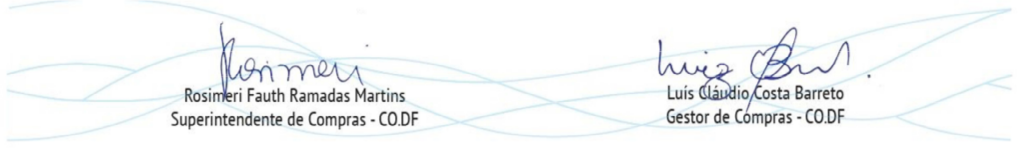
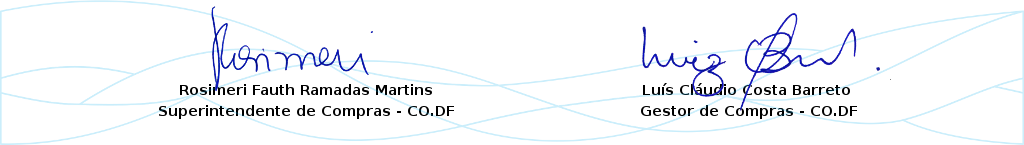
SC-391 #resolved SC-391 #comment Updated the signatures file, containaing a high resolution file

diff --git a/modules/Calendar/scripts/calendar.js b/modules/Calendar/scripts/calendar.js
@@ -55,6 +55,7 @@ $SC.module("portlet.calendar", function(mod, app, Backbone, Marionette, $, _) {
 	                header: h,
 	                slotMinutes: 15,
 	                editable: false,
+	                draggable : false,
 	                timezone : 'UTC',
                     eventSources: [
                         '/module/calendar/datasource/calendar'

diff --git a/modules/Certificate/CertificateModule.php b/modules/Certificate/CertificateModule.php
@@ -3,6 +3,8 @@ namespace Sysclass\Modules\Certificate;
 
 use Sysclass\Models\Courses\Course,
     Sysclass\Models\Users\User,
+    Sysclass\Models\Certificates\Certificate,
+    Sysclass\Models\Courses\Tests\Lesson as LessonTest,
     Dompdf\Dompdf,
     Dompdf\Canvas,
     Sysclass\Models\Organizations\Organization,
@@ -23,17 +25,26 @@ class CertificateModule extends \SysclassModule implements \ISummarizable, INoti
 
     /* ISummarizable */
     public function getSummary() {
-        $data = array(1);
+        $certificates = Certificate::find(array(
+            'conditions' => 'user_id = ?0',
+            'bind' => array($this->user->id),
+            'order' => 'id DESC'
+        ));
 
-        return array(
+        $info = array(
             'type'  => 'warning',
-            'count' => $data[0],
+            'count' => $certificates->count(),
             'text'  => $this->translate->translate('Certificates'),
-            'link'  => array(
-                'text'  => $this->translate->translate('View'),
-                'link'  => $this->getBasePath()
-            )
         );
+
+        if ($certificates->count() > 0) {
+            $info['link']  = array(
+                'text'  => $this->translate->translate('View'),
+                'link'  => $this->getBasePath() . "print/" . $certificates->getFirst()->id
+            );
+        }
+
+        return $info;
     }
 
     /* INotifyable */
@@ -44,6 +55,7 @@ class CertificateModule extends \SysclassModule implements \ISummarizable, INoti
     public function processNotification($action, Event $event) {
         switch($action) {
             case "make-avaliable" : {
+                /*
                 $data = $event->data;
                 $course = Course::findFirstById($data['course_id']);
                 $user = User::findFirstById($data['user_id']);
@@ -62,18 +74,177 @@ class CertificateModule extends \SysclassModule implements \ISummarizable, INoti
                         )
                     );
 
+                    // CREATE THE CERTIFICATE ON THE DATABASE
+
 
                     return array(
                         'status' => true
                     );
-
                 } else {
+                    */
                     return array(
                         'status' => false,
                         'unqueue' => true
                     );
+                //}
+                break;
+            }
+            case "create-certificate": {
+                $data = $event->data;
+                var_dump($data);
+
+                $type = $data['trigger'];
+
+                var_dump($type);
+
+                if ($type == "test") {
+                    $this->createTestCertificate($data['user_id'], $data['entity_id']);
+                }
+                return array(
+                    'status' => false,
+                    'unqueue' => false
+                );
+                exit;
+            }
+        }
+    }
+
+    public function createTestCertificate($user_id, $test_id) {
+        // GET CLASS AND COURSE NAME
+        $lessonTest = LessonTest::findFirstById($test_id);
+        $user = User::findFirstById($user_id);
+        if ($lessonTest && $user) {
+            $module = $lessonTest->getClasse();
+            if ($module) {
+                $courses = $module->getCourses();
+                if ($courses->count() > 0) {
+                    $course = $courses->getFirst();
+
+                    $vars = array(
+                        'username' => $user->name . " " . $user->surname,
+                        'coursename' => $course->name,
+                        'modulename' => $module->name,
+                        'date' => date("d/m/Y")
+                    );
+
+                    $certificate = Certificate::findFirst(array(
+                        'conditions' => "user_id = ?0 AND entity_id = ?1 AND type = 'test'",
+                        'bind' => array($user_id, $test_id)
+                    ));
+
+                    if (!$certificate) {
+                        $certificate = new Certificate();
+                        $certificate->user_id = $user_id;
+                        $certificate->entity_id = $test_id;
+                        $certificate->type = 'test';
+                    }
+                    $certificate->name = $module->name;
+
+                    $certificate->vars = json_encode($vars);
+                    if ($certificate->save()) {
+                        return true;
+                    }
                 }
             }
+        }
+        return false;
+    }
+
+    /**
+    * [ add a description ]
+    *
+    * @Get("/print/{id}")
+    */    
+    public function printCertificate($id)
+    {
+        //var_dump($courseModel->getCertificateTemplate($id)); // RETORNA template3
+
+        /*var_dump();
+        exit;
+        */
+        $canContinue = false;
+
+        $certificate = Certificate::findFirstById($id);
+
+        if ($certificate && $certificate->user_id == $this->user->id) {
+            // CHECK IF THE TEST IS ALREADY COMPLETED
+            $canContinue = true;
+        }
+        /*
+        $courses = $this->user->getUserCourses();
+
+        foreach($courses as $course) {
+            if ($course->course_id = $id) {
+                $canContinue = $course->isCompleted();
+                break;
+            }
+        }
+        */
+        if ($canContinue) {
+
+            $vars = json_decode($certificate->vars, true);
+
+            $this->view->setVars($vars);
+            //$course->complete();
+            //$this->view->setVar("course", $course->getCourse());    
+
+            $organization = Organization::findFirst();
+            $this->view->setVar("organization", $organization);
+
+            $this->assets
+                ->collection('header')
+                /*
+                ->setPrefix(sprintf(
+                    '%s://%s',
+                    $this->request->getScheme(),
+                    $this->request->getHttpHost()
+                ))
+                */
+                //->addCss('http://fonts.googleapis.com/css?family=Roboto', true)
+                //->addCss('/assets/default/plugins/bootstrap/css/bootstrap.css', true)
+                ->addCss('assets/default/css/certificate.css')
+                ->addCss('assets/default/css/certificates/itaipu.css');
+
+            $html = $this->view->render("certificate/" . $certificate->type . ".cert");
+            
+            $this->response->setContent($html);
+            //return true;
+
+            global $_dompdf_show_warnings;
+            //$_dompdf_show_warnings = true;
+
+            global $_dompdf_debug;
+            //$_dompdf_debug = true;
+            
+            $pdf = new \mPdf("","A4-L");
+
+            $pdf->WriteHTML($html, 0);
+            $br = rand(0, 100000);
+            $ispis = "Certificado-" . $id . ".pdf";
+
+            $pdf->Output($ispis, "I");
+            /*
+            $dompdf->set_base_path(REAL_PATH);
+            //$dompdf->set_option('isHtml5ParserEnabled', true);
+            $dompdf->set_option('isRemoteEnabled', true);
+            //$dompdf->set_option('debugCss', true);
+
+            $dompdf->load_html($html);
+            $dompdf->set_paper('letter', 'landscape');
+            $dompdf->render();
+            
+            //$dompdf->stream("$id");
+            $dompdf->stream(date('d/m/Y').'certificado.pdf', array('Attachment'=>true));
+            */
+        } else {
+            //$this->response->redirect();
+            $this->redirect(
+                '/dashboard',
+                $this->translate->translate("Warning: An error occured when the system is trying to complete your request!"),
+                'warning'
+            );
+            
+            return;
         }
     }
 
@@ -82,7 +253,7 @@ class CertificateModule extends \SysclassModule implements \ISummarizable, INoti
     *
     * @Get("/view/{id}")
     */    
-    public function printCertificate($id)
+    public function viewCertificate($id)
     {
         //var_dump($courseModel->getCertificateTemplate($id)); // RETORNA template3
 

diff --git a/model/TestsExecutionModel.php b/model/TestsExecutionModel.php
@@ -65,6 +65,19 @@ class TestsExecutionModel extends AbstractSysclassModel implements ISyncronizabl
         );
 
         $this->calculateUserScore($test_try);
+
+
+        $evData = array(
+            'entity_id' => $test_try['test_id'],
+            'user_id' => $test_try['user_id'],
+            'trigger' => 'test'
+        );
+
+        $evManager = \Phalcon\DI::getDefault()->get("eventsManager");
+
+        $evManager->fire("certificate:generate", $this, $evData);
+        var_dump($evData);
+        exit;
     }
 
     public function calculateUserScore($execution) {

diff --git a/modules/Tests/TestsModule.php b/modules/Tests/TestsModule.php
@@ -608,6 +608,7 @@ class TestsModule extends \SysclassModule implements \ISummarizable, \ILinkable,
 
             if ($itemModel->setItem($data, $identifier) !== false) {
                 if ($model == "execution" && $data['complete'] == 1) {
+
                     return $this->createRedirectResponse(
                         $this->getBasePath() . "execute/" . $data['test_id'] . "/" . $identifier,
                         $this->translate->translate("Test completed with success"),

diff --git a/app/models/Certificates/Certificate.php b/app/models/Certificates/Certificate.php
@@ -1,0 +1,22 @@
+<?php
+namespace Sysclass\Models\Certificates;
+
+use Plico\Mvc\Model;
+
+class Certificate extends Model
+{
+    public function initialize()
+    {
+        $this->setSource("mod_certificate");
+        
+        $this->belongsTo(
+            "user_id",
+            "Sysclass\Models\Users\User",
+            "id",
+            array(
+                'alias' => 'User',
+            )
+        );
+    }
+    
+}

diff --git a/cli.php b/cli.php
@@ -20,12 +20,15 @@ use Phalcon\Mvc\Application;
 
 define("REAL_PATH", realpath(__DIR__ . "/"));
 
+define("PLICOLIB_PATH", __DIR__ . "/plicolib/");
+
+/*
 if ($_SERVER['HTTP_HOST'] == 'local.beta.sysclass.com') {
     define("PLICOLIB_PATH", "/projects/repo/plico/plicolib.local/");
 } else {
     define("PLICOLIB_PATH", __DIR__ . "/../../../plicolib/current/");
 }
-
+*/
 define("APP_TYPE", "CONSOLE");
 
 

diff --git a/app/models/Courses/Tests/Lesson.php b/app/models/Courses/Tests/Lesson.php
@@ -28,6 +28,7 @@ class Lesson extends BaseLesson
             "id",
             array('alias' => 'Questions')
         );
+
     }
 
     public function assign(array $data, $dataColumnMap = NULL, $whiteList = NULL) {

diff --git a/app/services/MessageBus/Manager.php b/app/services/MessageBus/Manager.php
@@ -13,7 +13,8 @@ class Manager extends Component
 		'user',
 		'api',
 		'course',
-		'unit'
+		'unit',
+		'certificate'
 	);
 
 	protected $listeners = array();
